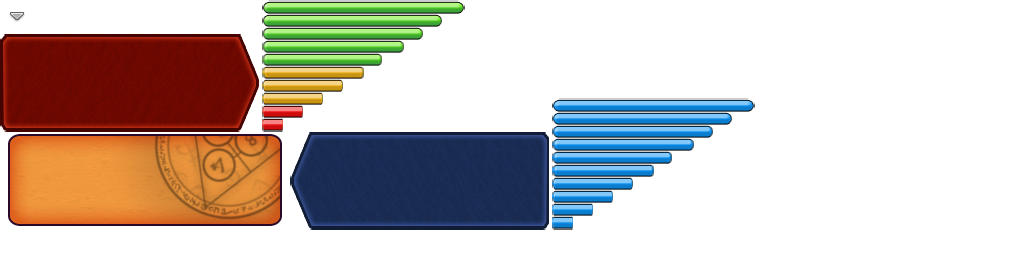
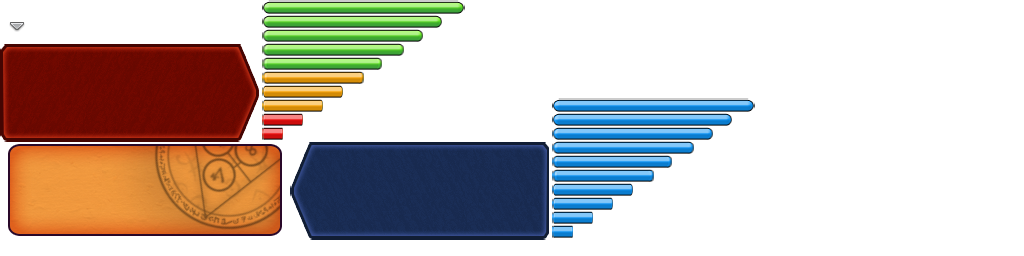
hp & sp bar fonctionne

Changed region(s): [[0.0, 0.0312, 0.7188, 0.9375]]

diff --git a/tutoBatailleNavale/src/m4ges/views/BattleScreen.java b/tutoBatailleNavale/src/m4ges/views/BattleScreen.java
@@ -6,6 +6,7 @@ import java.io.IOException;
 
 import m4ges.controllers.AbstractScreen;
 import m4ges.controllers.MyGame;
+import m4ges.models.Bar;
 import m4ges.models.Personnage;
 import m4ges.models.Skill;
 import m4ges.models.Vague;
@@ -27,6 +28,7 @@ import com.badlogic.gdx.scenes.scene2d.Stage;
 import com.badlogic.gdx.scenes.scene2d.actions.Actions;
 import com.badlogic.gdx.scenes.scene2d.ui.Label;
 import com.badlogic.gdx.scenes.scene2d.ui.Label.LabelStyle;
+import com.badlogic.gdx.scenes.scene2d.ui.Image;
 import com.badlogic.gdx.scenes.scene2d.ui.Stack;
 import com.badlogic.gdx.scenes.scene2d.ui.Table;
 import com.badlogic.gdx.scenes.scene2d.ui.TextButton;
@@ -237,10 +239,13 @@ public class BattleScreen extends AbstractScreen {
 	private Window createMyInfoWindows() {
 		WindowStyle ws = new WindowStyle(new BitmapFont(), Color.BLACK,
 				new TextureRegionDrawable(battle_info));
+		Bar bar = new Bar(game.player);
 		Window infoWindow = new Window("", ws);
 		infoWindow.row();
+		infoWindow.add(new Image(bar.getHpBar()));
 		infoWindow.add(new Label("hp:" + game.player.getHp(), skin));
 		infoWindow.row();
+		infoWindow.add(new Image(bar.getSpBar()));
 		infoWindow.add(new Label("sp:" + game.player.getMana(), skin));
 		infoWindow.pack();
 		infoWindow.setBounds(0, 0, battle_info.getRegionWidth(),

diff --git a/tutoBatailleNavale/src/m4ges/models/Personnage.java b/tutoBatailleNavale/src/m4ges/models/Personnage.java
@@ -107,6 +107,7 @@ public abstract class Personnage extends Actor {
 		}
 		else
 			this.hp -= damage;
+		notify();
 		
 	}
 	
